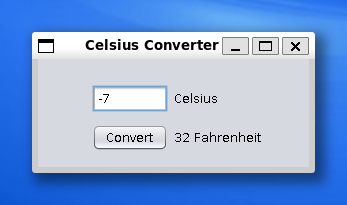
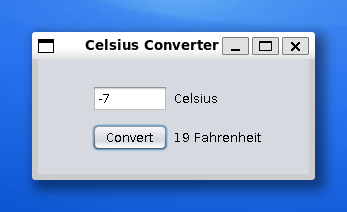
edit

diff --git a/index.md b/index.md
@@ -7,7 +7,7 @@ Programming Projects
 *For access to my private project repositories, please [email me](mailto:example@csustudent.net?subject=GitHub%20Access) with the subject line, GitHub Access.
 
 ---
-### [Project 1 Title | CSCI 301](project1)
+### [Project 1 Title | CSCI ](project1)
 
 ![Project 1 Thumbnail Name](images/dummy_thumbnail.jpg)
 
@@ -17,12 +17,12 @@ Programming Projects
 ![Project 2 Thumbnail Name](images/chat.jpg)
 
 ---
-### [Project 3 Title | CSCI 325](project3)
+### [Project 3 Title | CSCI ](project3)
 
 ![Project 3 Thumbnail Name](images/dummy_thumbnail.jpg)
 
 ---
-### [Project 4 Title | CSCI 325](project4)
+### [Celcius Converter | CSCI 325](project4)
 
 ![Project 4 Thumbnail Name](images/convert1.png)
 
